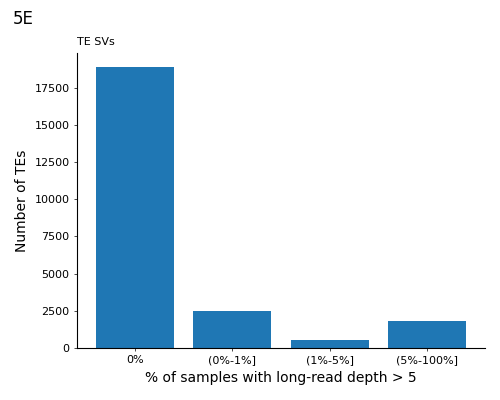
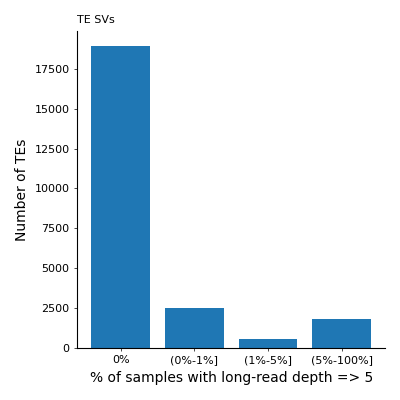
update axis text

diff --git a/README.md b/README.md
@@ -245,25 +245,29 @@ r = 0.80, p=0.00e+00
 <details>
 
 ```
+cat data/lr_hg002_pop_freq_t_5.bed \
+| awk '$4=="INS" || $3-$2>=50' \
+> data/lr_hg002_pop_freq_t_5.len_gte_50.bed
+
 python src/hex_plot.py \
-    --stix data/lr_hg002_pop_freq_t_5.bed \
+    --stix data/lr_hg002_pop_freq_t_5.len_gte_50.bed \
     --other data/HG002.gnomadAF.bed \
     --out img/stix_lr_hg002_vs_gnomad_pop_freq.png \
     --merged data/stix_lr_hg002_vs_gnomad_pop_freq.bed \
     --height 4 \
     --width 5 \
     --xlabel "Allele freq. in gnomAD" \
-    --ylabel "Num. of samples with STIX long-read depth > 5" \
+    --ylabel "Num. of samples with STIX long-read depth => 5" \
     --title "HG002 SVs"
 
 cat data/stix_lr_hg002_vs_gnomad_pop_freq.bed | wc -l
-   66822
+   10647
 
 cat data/stix_lr_hg002_vs_gnomad_pop_freq.bed | awk '$5>0' | wc -l
-   35970
+   10402
 
-calc 35970/66822
-    0.53829577085391
+calc 10402/10647
+    0.976988823142669
 
 cat data/stix_lr_hg002_vs_gnomad_pop_freq.bed | cut -f 4 | sort | uniq -c
 28307 DEL
@@ -281,7 +285,7 @@ cat data/stix_sr_hg002_vs_gnomad_pop_freq.bed | wc -l
 35683
 cat data/stix_sr_hg002_vs_gnomad_pop_freq.bed | awk '$5>0' | cut -f 4 | sort | uniq -c
 31506 DEL
-calc 31506/35683
+calc 31506/35683 \
     0.882941456716083
 
 cat data/stix_lr_hg002_vs_gnomad_pop_freq.bed | awk '$6>0' | cut -f 4 | sort | uniq -c
@@ -313,7 +317,9 @@ python src/hex_plot.py \
     --width 5 \
     --xlabel "Allele freq. in gnomAD" \
     --ylabel "Num. of samples with STIX long-read depth > 5" \
-    --title "HG002 CMRG SVs"
+    --title "HG002 CMRG SVs" \
+    --color-scale 0,5 \
+    --color Blues
 
 python src/hex_plot.py \
     --stix data/sr_hg002_pop_freq_t_5.bed \
@@ -324,7 +330,8 @@ python src/hex_plot.py \
     --width 5 \
     --xlabel "Allele freq. in gnomAD" \
     --ylabel "Num. of samples with STIX short-read depth > 5" \
-    --title "HG002 DELs"
+    --title "HG002 DELs" \
+    --color Blues
 
 python src/hex_plot.py \
     --stix data/sr_hg002_cmrg_pop_freq_t_5.bed \
@@ -335,7 +342,9 @@ python src/hex_plot.py \
     --width 5 \
     --xlabel "Allele freq. in gnomAD" \
     --ylabel "Num. of samples with STIX short-read depth > 5" \
-    --title "HG002 CMRG DELs"
+    --title "HG002 CMRG DELs" \
+    --color-scale 0,5 \
+    --color Blues
 
 cat data/stix_lr_hg002_cmrg_vs_gnomad_pop_freq.bed | wc -l
      218
@@ -521,7 +530,7 @@ cat data/lr_te_pop_freq_t_5.bed \
     --bins 0 0.001 .01 .05 1.0 \
     --bin_names "0%" "(0%-1%]" "(1%-5%]" "(5%-100%]" \
     --out_file img/lr_te_freq_fixed_bins_t_5.png \
-    --xlabel "% of samples with long-read depth > 5"\
+    --xlabel "% of samples with long-read depth => 5"\
     --ylabel "Number of TEs" \
     --title "TE SVs"
 
@@ -770,7 +779,7 @@ cat data/lr_1kg_pop_freq_t_5.bed \
     --ylabel "Freq."
 
 cat data/LR_1kg_queries_sampleswise_agg.staffr.bed \
-cut -f 1,2,5,7,12 \
+| cut -f 1,2,5,7,12 \
 | tail -n +2 \
 > data/lr_1kg_staffr_q.bed
 